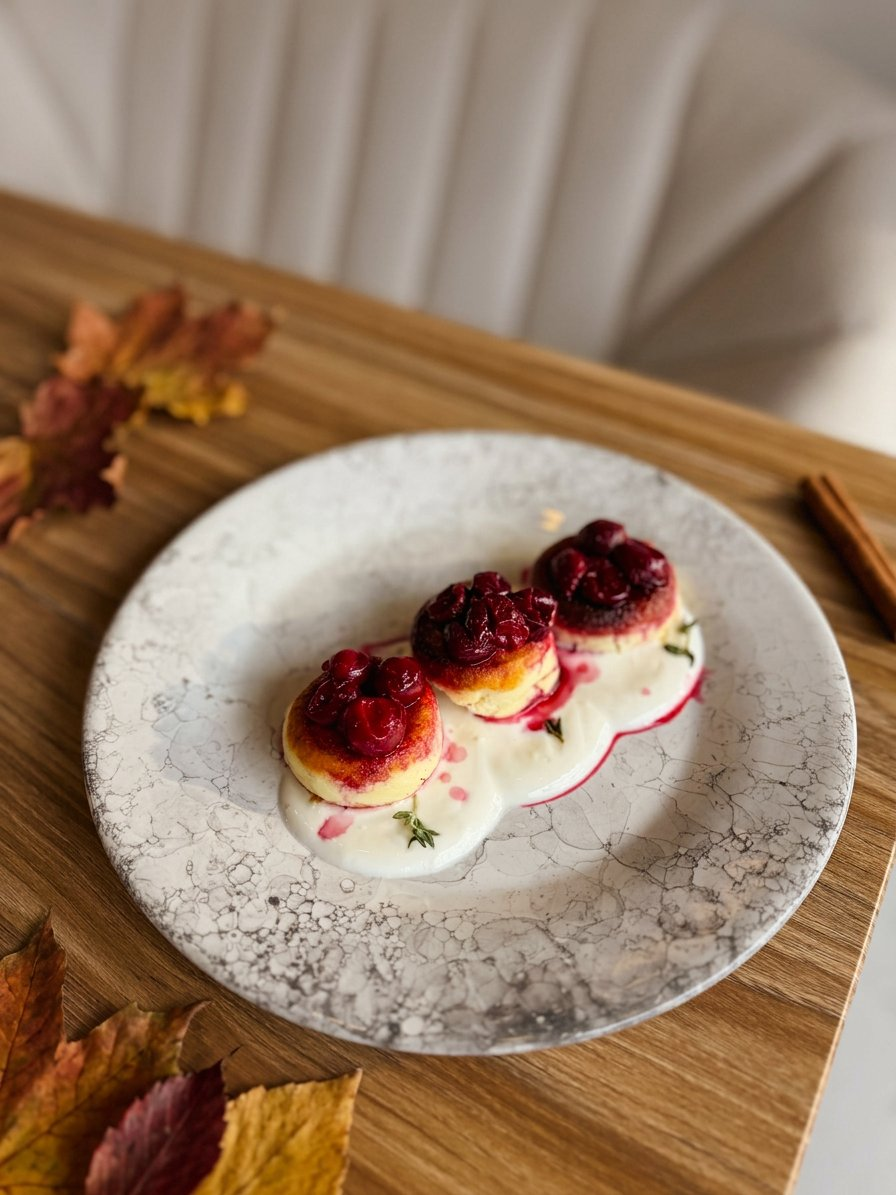
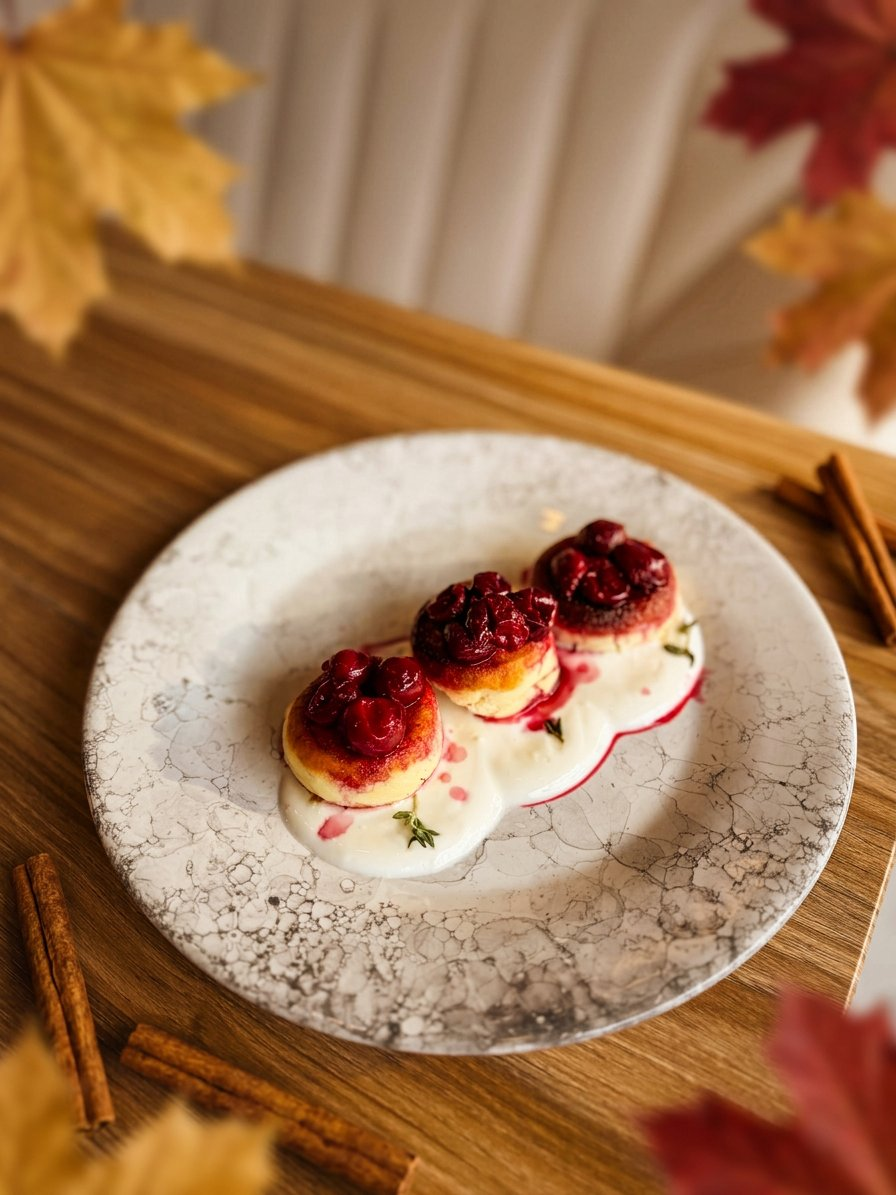
Final glossy versions 10-13, 16-20; update README

diff --git a/README.md b/README.md
@@ -1,1 +1,19 @@
-# pgotofood
+# pgotofood 🍁
+
+Фотографии блюд кофейни, обработанные в стиле профессиональной студийной фуд-фотографии (осенняя тематика, глянцевый журнальный стиль).
+
+## Структура
+
+- `photo_*_2026-09-29_18-49-56.jpg` — оригинальные снимки (27 шт.)
+- `IMG_8586.MOV`, `IMG_8628.MOV` — оригинальные видео
+- **`edited/`** — обработанные материалы:
+  - `photo_01_autumn.jpg` … `photo_27_autumn.jpg` — фото в осеннем глянцевом стиле (соцсети + меню)
+  - `IMG_8586_autumn.mp4`, `IMG_8628_autumn.mp4` — видео с тёплой осенней цветокоррекцией
+
+## Стиль обработки
+
+- Тёплый осенний грейд: янтарь, карамель, багрянец
+- Мягкий направленный студийный свет, кремовое боке
+- Глянцевые аппетитные блики на еде («хочется съесть фотографию»)
+- Осенний декор: кленовые листья, мини-тыквы, палочки корицы, гирлянды
+- Видео: тёплая цветовая температура, насыщенность, мягкая виньетка, лёгкая резкость
